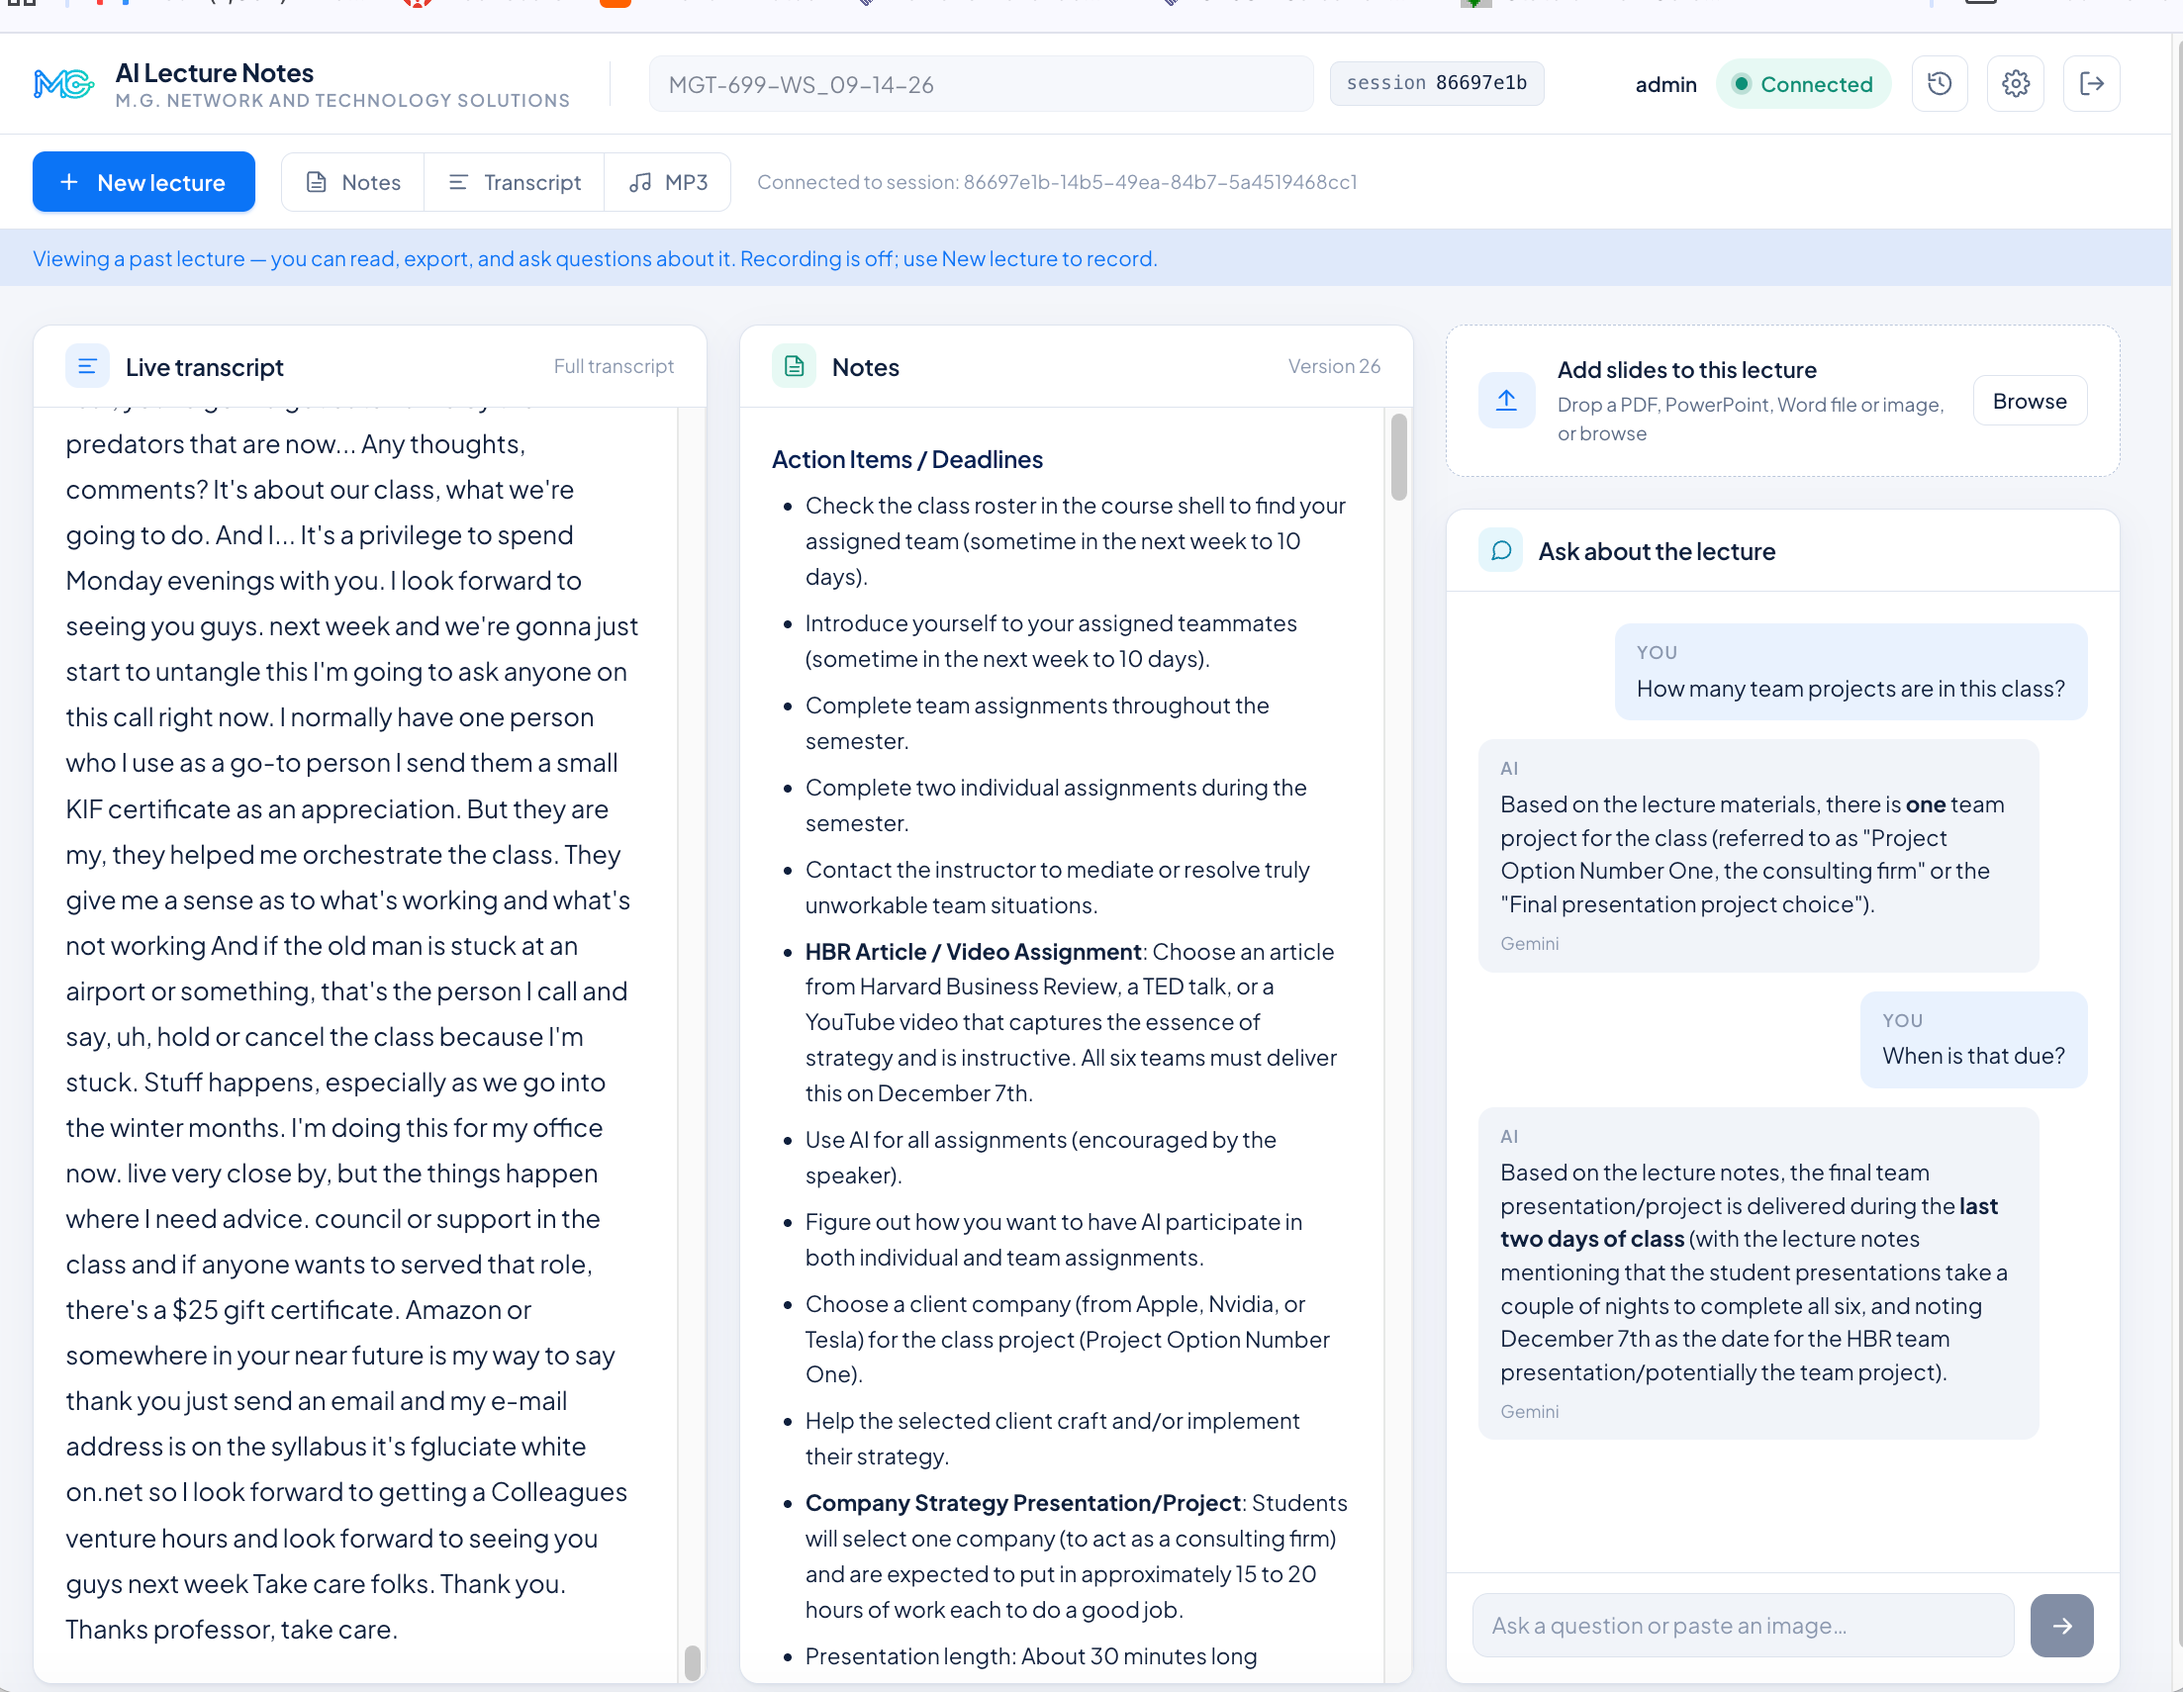
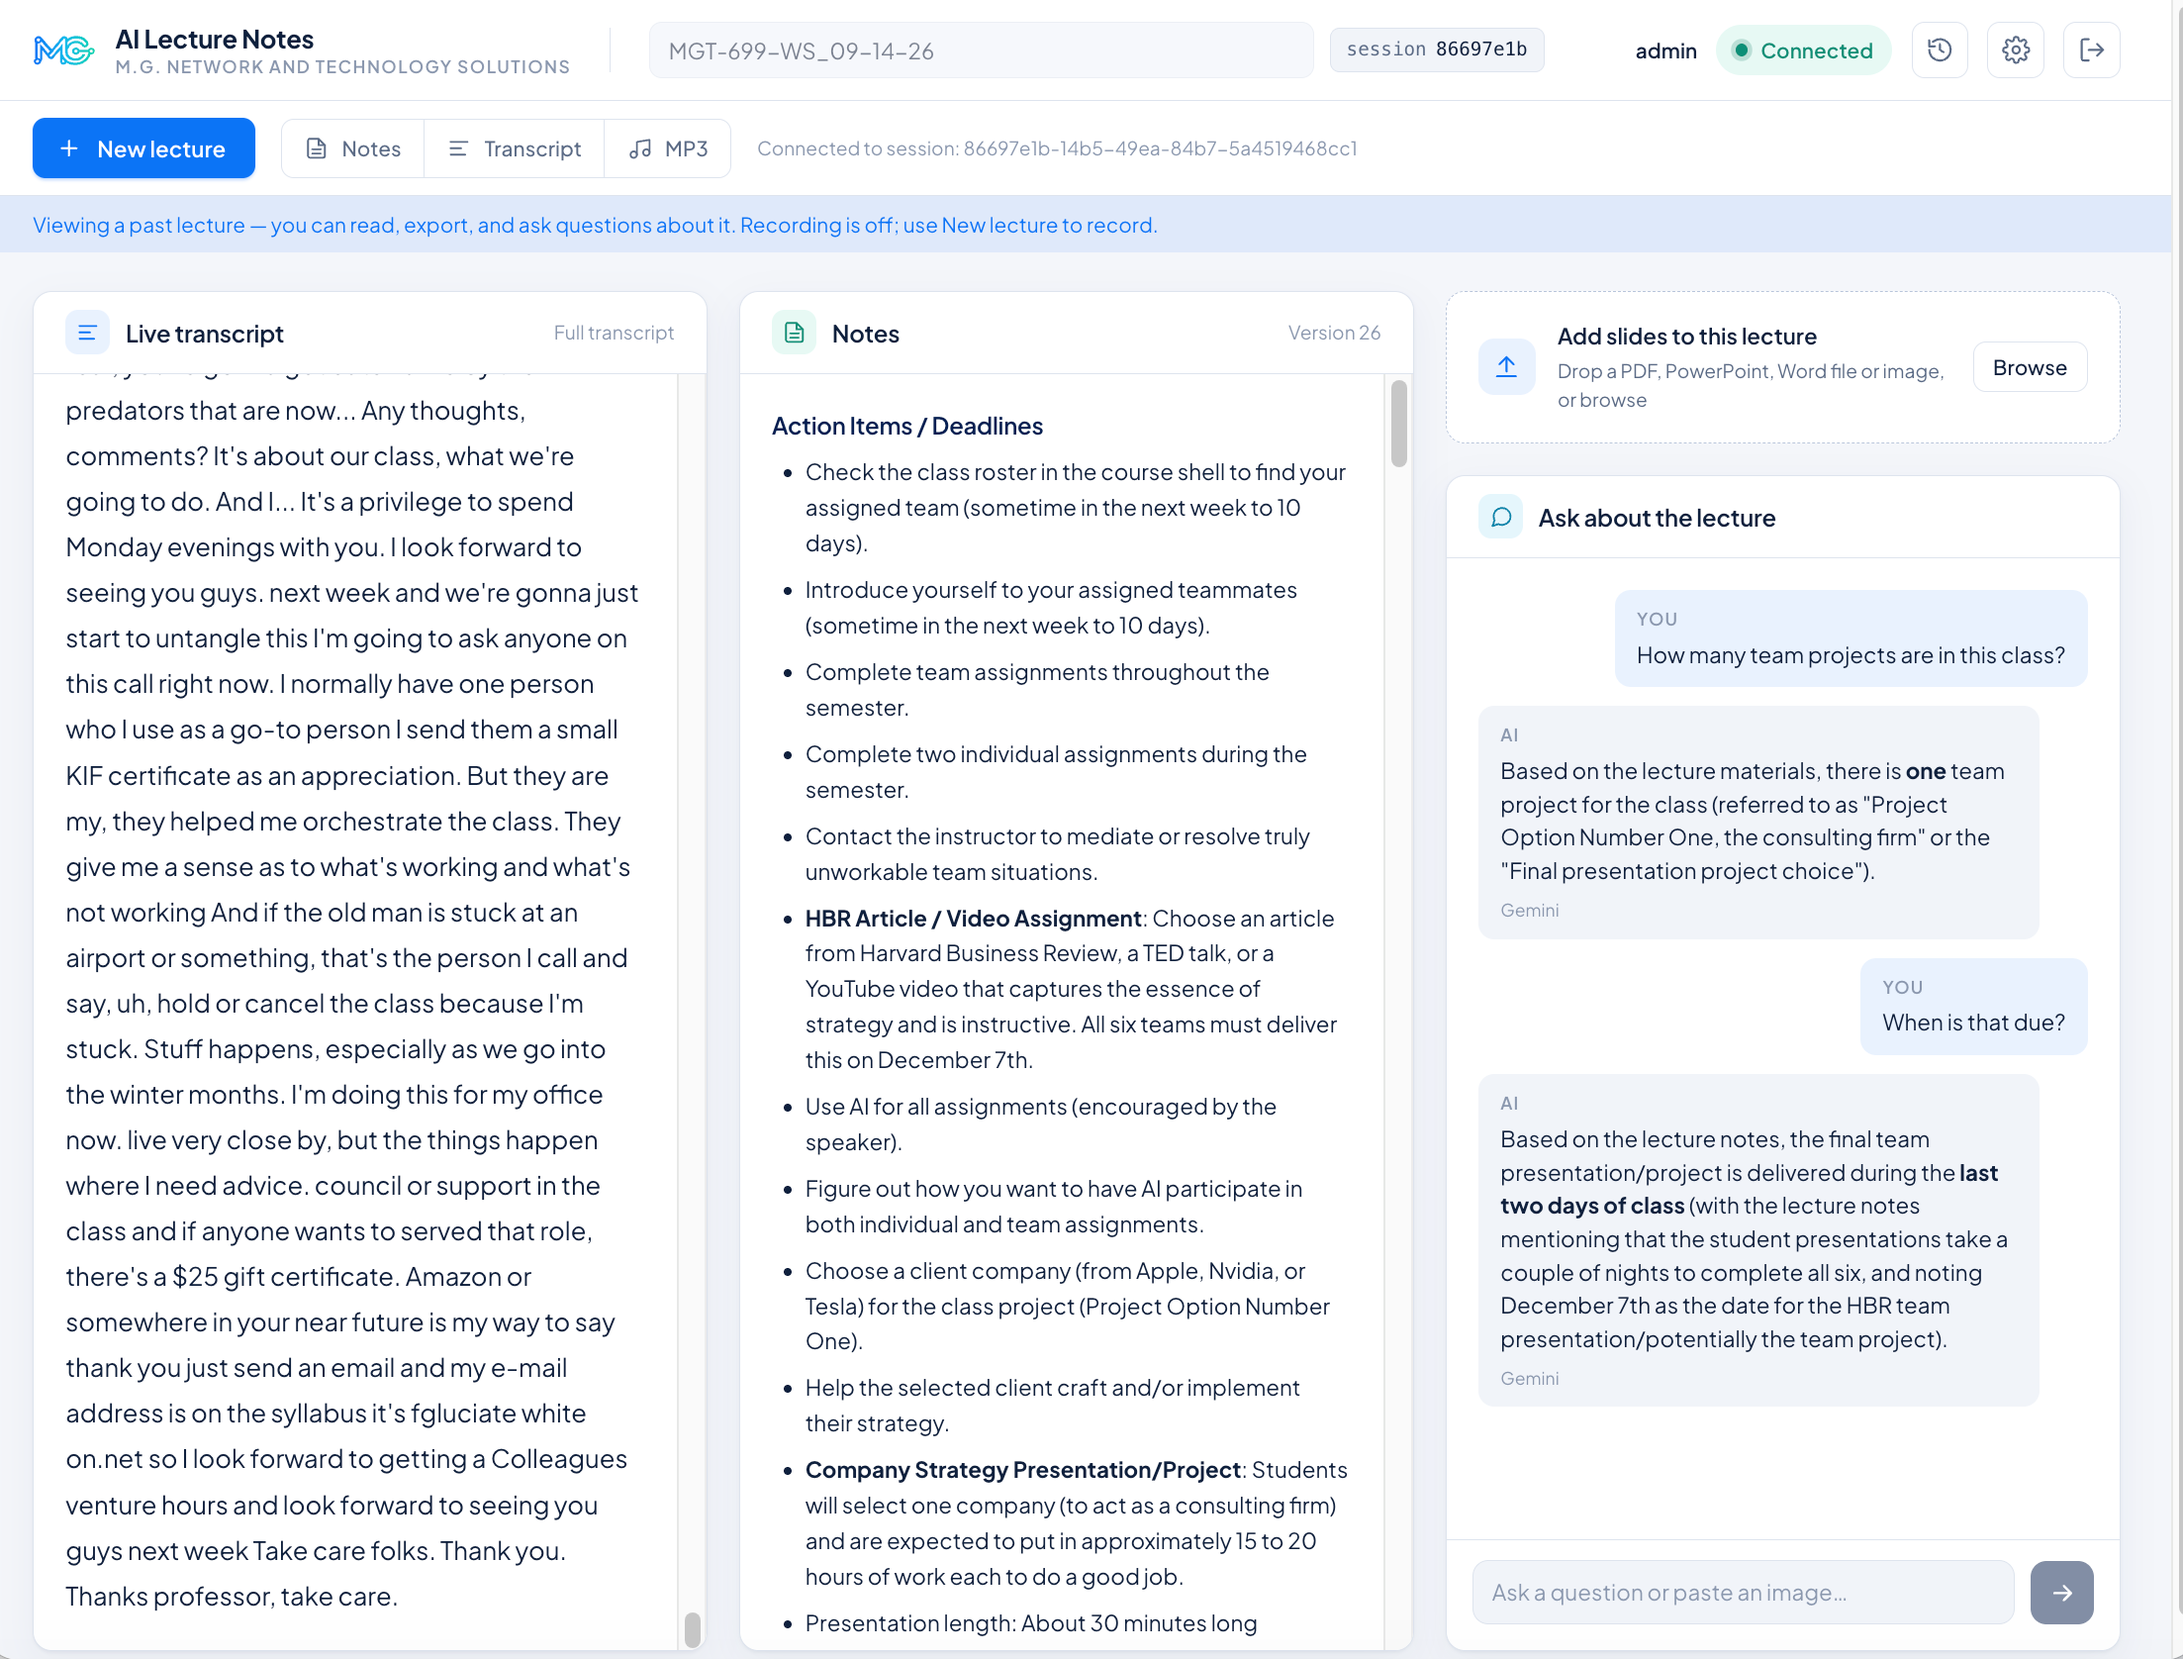
README: light desktop shot re-cropped (no browser chrome); phone composite dark-only
Claude-Session: https://claude.ai/code/session_0118yYMbF3E8uFWZPW3Uqf3F

diff --git a/README.md b/README.md
@@ -44,8 +44,8 @@ optional.
 </picture>
 <p align="center"><em>The same lecture in the other theme (light and dark are both built in).</em></p>
 
-![Three phone screens: the lecture header and transcript in dark mode, the notes in dark mode, and the notes in light mode](design/screenshots/phone.png)
-<p align="center"><em>Installed as a home-screen app on a phone, mostly in dark mode — the easier read on a small screen. Transcript and notes stack vertically.</em></p>
+<p align="center"><img width="560" alt="Two phone screens in dark mode: the lecture header with the live transcript, and the generated notes" src="design/screenshots/phone.png"></p>
+<p align="center"><em>Installed as a home-screen app on a phone, in dark mode — the easier read on a small screen. Transcript and notes stack vertically.</em></p>
 
 ![The empty workspace before recording, light mode](design/screenshots/workspace-empty.png)
 <p align="center"><em>Ready to record: name the lecture, pick a microphone, optionally capture tab audio or skip keeping the audio.</em></p>
